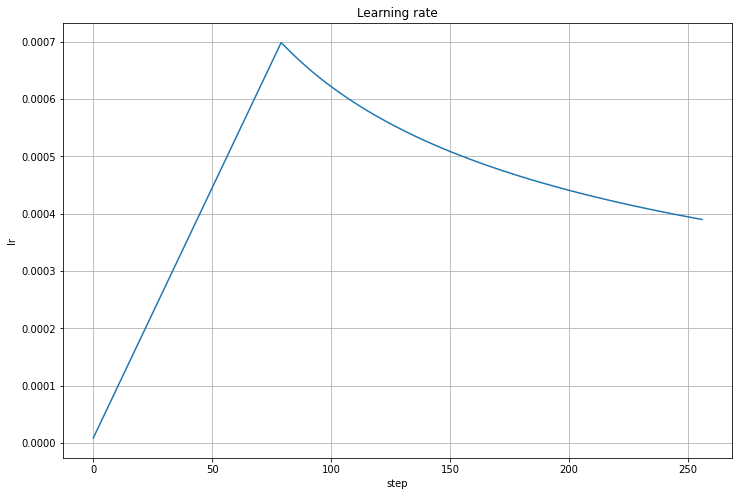
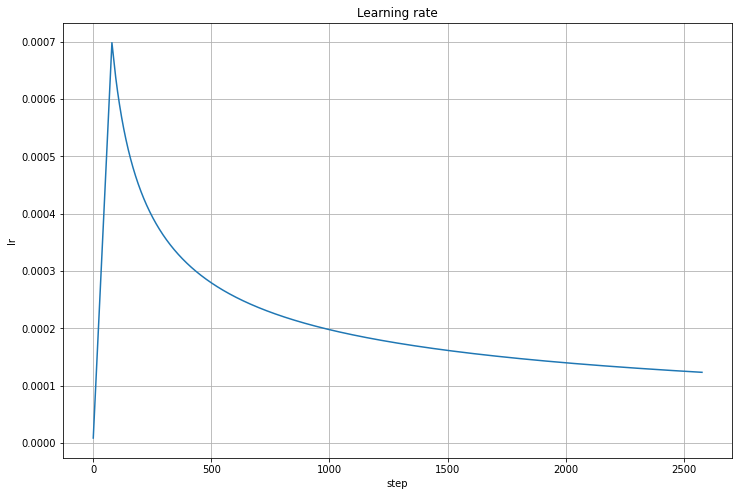
add 2blocks fixed experiments

diff --git a/experiments/2_block_fixed.md b/experiments/2_block_fixed.md
@@ -1,2 +1,70 @@
 ## Обучение
+
+Фиксы после mvp версии:
+* валидацию делаем на действительно отложенном датасете, а не на трейне
+* рандомная сортировка предложений. В первой версии они были отсортированы по длинне. Поэтому у лосса были периоды.
+
+
+Во время обучения `batch_size = 50`
+
+![loss](resources/2blocks_fixed/loss.png)
+![bleu](resources/2blocks_fixed/bleu.png)
+![lr](resources/2blocks_fixed/lr.png)
+
+
+## Примеры перевода
+
+```
+translation:
+
+этот провал уже вызвал многие коренные проблемы.
+
+это значительно повысило бы устойчивость долга этих стран.
+
+популярность исламистов не трудно понять.
+
+нью-йорк – я – американский, московский корпус.
+
+среди нелояльности, однако, каждый из них становится преданным по-своему.
+
+
+=======
+target:
+
+такие неудачи пугают многих корейцев.
+
+это позволит значительно повысить устойчивость долга этих стран.
+
+популярность исламистов понять несложно.
+
+нью-йорк – я американка, родилась в москве.
+
+а вот предателем каждый становится по-своему.
+```
+
 ## Прунинг голов энкодера
+
+
+### lambda=0.2
+
+![l0.2_bleu](resources/2blocks_fixed/2blocks_fixed_pruned_l0.2_bleu.png)
+![l0.2_loss](resources/2blocks_fixed/2blocks_fixed_pruned_l0.2_loss.png)
+![l0.2_popen](resources/2blocks_fixed/2blocks_fixed_pruned_l0.2_popen.png)
+
+![pruned_l0.2_heads](resources/2blocks_fixed/2_blocks_fixed_pruned_l0.2.gif)
+### lambda=0.1
+
+![l0.1_bleu](resources/2blocks_fixed/2blocks_fixed_pruned_l0.1_bleu.png)
+![l0.1_loss](resources/2blocks_fixed/2blocks_fixed_pruned_l0.1_loss.png)
+![l0.1_popen](resources/2blocks_fixed/2blocks_fixed_pruned_l0.1_popen.png)
+
+![pruned_l0.1_heads](resources/2blocks_fixed/2_blocks_fixed_pruned_l0.1.gif)
+
+### lambda=0.05
+
+![l0.05_bleu](resources/2blocks_fixed/2blocks_fixed_pruned_l0.05_bleu.png)
+![l0.05_loss](resources/2blocks_fixed/2blocks_fixed_pruned_l0.05_loss.png)
+![l0.05_popen](resources/2blocks_fixed/2blocks_fixed_pruned_l0.05_popen.png)
+
+![pruned_l0.05_heads](resources/2blocks_fixed/2_blocks_fixed_pruned_l0.05.gif)
+

diff --git a/experiments/4_block.md b/experiments/4_block.md
@@ -8,10 +8,43 @@
 
 Во время обучения `batch_size = 100`
 
-![loss](resources/2blocks_fixed/loss.png)
-![bleu](resources/2blocks_fixed/bleu.png)
-![lr](resources/2blocks_fixed/lr.png)
+![loss](resources/4blocks/loss.png)
+![bleu](resources/4blocks/bleu.png)
+![lr](resources/4blocks/lr.png)
 
+
+## Примеры перевода
+
+На последней эпохе:
+
+```
+translation:
+
+более комплексный подход будет сосредоточен на укреплении украины в каждом отношении.
+
+в обоих случаях уровень долга в конечном счете стал неустойчивым.
+
+время не было бы хуже.
+
+вы в толпе, когда вы слышите вашу имя.
+
+esda сократила свой час на балканах.
+
+
+=======
+
+target:
+
+более комплексный подход предполагает усиление украины по всем направлениям.
+
+в обоих случаях уровни задолженности стали непосильными.
+
+нельзя было выбрать худшего момента для проведения таких мер.
+
+находясь в толпе людей, вы слышите свое имя.
+
+епоб приобрела свой первый опыт на балканах.
+```
 
 ## Прунинг голов энкодера
 
@@ -44,3 +77,8 @@
 ![4_blocks_pruned_l0.05_heads](resources/4blocks/4_blocks_pruned_l0.05.gif)
 
 PS вот тут не хватило колаба, чтобы сошлись некоторые гейты, но общий смысл ясен
+
+
+## Веса
+
+[тык](https://drive.google.com/file/d/1-Lg0ZgpnNXvBFbcExR2vNycfN_-9FBym/view?usp=sharing)

diff --git a/README.md b/README.md
@@ -77,10 +77,6 @@ trg_vocab_size = 10000
 
 Пофиксил в [этом](https://github.com/mrsndmn/dls-nmt-project/commit/b503380229560bf3e72a8576a1f51e854ef38686) коммите. Конечно да, евал не фризит параметры! И это было в домашке, возможно даже в перой части... И в проекте про CycleGAN'ы.
 
-<!-- todo
-version_12 -- нормально обученная модель, batch_size 50
-4_blocks_512_bs_100_3epochs 4_blocks_512_bs_100_10epochs -- это пожирнее трансформер, bs = 100 -->
-
 
 ---
 

diff --git a/experiments/2_block_mvp.md b/experiments/2_block_mvp.md
@@ -21,6 +21,8 @@
 
 ![bleu](resources/2blocks/bleu.png)
 
+## Примеры перевода
+
 Вот примеры переводов:
 * [нулевая эпоха](resources/2blocks/0epoch_translation.txt)
 * [вторая](resources/2blocks/2epoch_translation.txt)
@@ -95,6 +97,6 @@
 ![bleu_lambda_0.1](resources/2blocks/bleu_lambda_0.1.png)
 
 
-### Веса
+## Веса
 
 Обученные веса двухблочного трансформера [тут](https://drive.google.com/drive/folders/10Sp-fjyNLp9IGlaGcdt-iWn3z0X_sR8e?usp=sharing).
